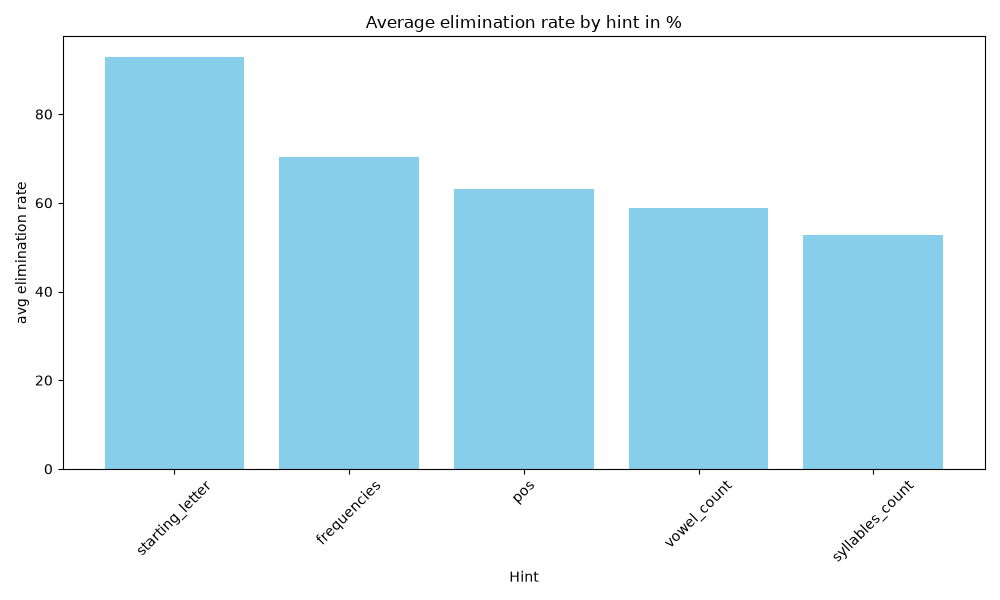
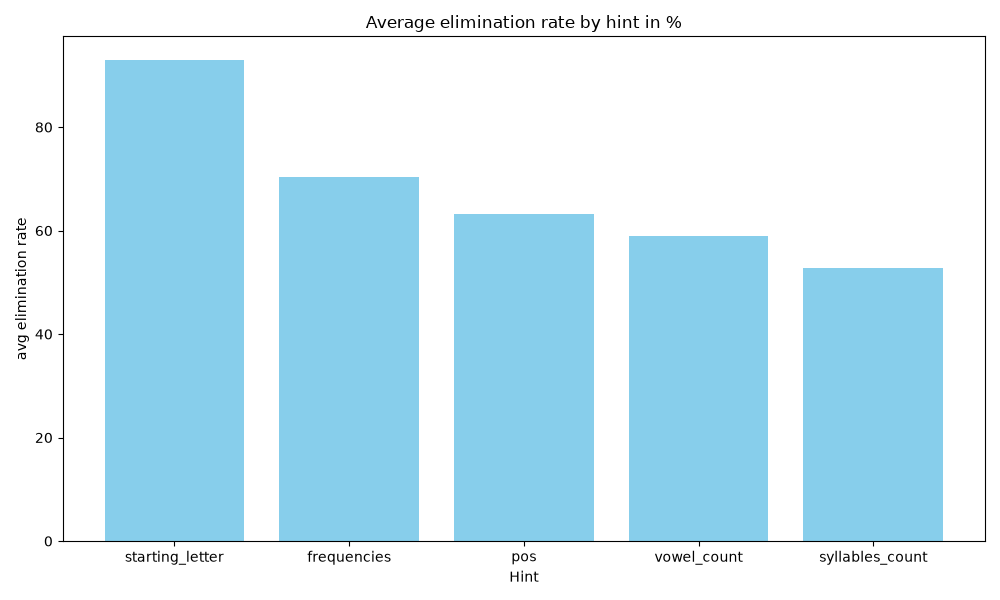
added comments

diff --git a/src/evaluate.py b/src/evaluate.py
@@ -70,11 +70,11 @@ def load_properties(): #load linguistic properties
 
 def analyze_game_data(save_to_file=False):  # analysis function
 
-    df = load_sheet_data()
+    df = load_sheet_data() #het the data from the linguistic wordle game 
     df["word"] = df["word"].str.lower()
 
-    props = load_properties()
-    props = {k.lower(): v for k, v in props.items()}
+    props = load_properties() #load the propertie_dict_pkl
+    props = {k.lower(): v for k, v in props.items()} #lower them
 
     # Attach properties to the data
     df["syllables"] = df["word"].apply(
@@ -160,10 +160,10 @@ def analyze_game_data(save_to_file=False):  # analysis function
 
     return results
 
-if __name__ == "__main__":
+if __name__ == "__main__": 
    analyze_game_data(save_to_file=True)
 
-def top_5_first_letters(file):
+def top_5_first_letters(file): #they would be good starting letters or negative hints, since they dont preclude many words
     words = bd.read_pickle(file) #load words
 
     if isinstance(words, dict):
@@ -183,14 +183,14 @@ def top_5_first_letters(file):
     })
     
     plt.figure(figsize=(10, 6)) #creates diagramm
-    plt.bar(top5.index, top5["percent"], color="skyblue")
-    plt.title("Top 5 initial letter – Percentage")
+    plt.bar(top5.index, top5["percent"], color="skyblue") #create the bars
+    plt.title("Top 5 initial letter – Percentage") #create title
     plt.xlabel("Letter")
     plt.ylabel("Percent (%)")
     plt.tight_layout()
 
-    data_folder = Path(__file__).resolve().parent.parent / "data" / "tables_and_charts" #saves diagramm
-    plt.savefig(data_folder / "top5_first_letters.png")
+    data_folder = Path(__file__).resolve().parent.parent / "data" / "tables_and_charts" #sets the path to save it
+    plt.savefig(data_folder / "top5_first_letters.png") #save it
     plt.close()
 
     print("Diagramm 'top5_first_letters.png' wurde erstellt.")
@@ -226,7 +226,7 @@ def avg_syllables_by_length_with_plot(file):
     plt.ylabel("Average syllables") #ylabel
     plt.tight_layout()
 
-    data_folder = Path(__file__).resolve().parent.parent / "data" / "tables_and_charts" #set the folder to save it
+    data_folder = Path(__file__).resolve().parent.parent / "data" / "tables_and_charts" #set the path to save it
     plt.savefig(data_folder / "avg_syllables_by_length.png") #save it
     plt.close()
     print("Diagramm avg_syllables_by_length.png wurde erstellt.") 
@@ -265,8 +265,8 @@ def avg_vowels_with_plot(file, length=None):
     plt.ylabel("Average number of vowels")
     plt.tight_layout()
 
-    data_folder = Path(__file__).resolve().parent.parent / "data" / "tables_and_charts" #saves diagramm
-    plt.savefig(data_folder / "avg_vowels_by_length.png")
+    data_folder = Path(__file__).resolve().parent.parent / "data" / "tables_and_charts" #set the path to save it
+    plt.savefig(data_folder / "avg_vowels_by_length.png") #save it
     plt.close()
 
     print("Diagramm 'avg_vowels_by_length.png' wurde erstellt.")
@@ -315,10 +315,10 @@ def top_10_words_with_plot(file):
 if __name__ == "__main__":
     print(top_10_words_with_plot("../data/propertie_dict.pkl"))
 
-def calculate_mean_elimination_rate_per_hint():
-    hints = ["syllables_count","frequencies", "pos", "starting_letter", "vowel_count"]
-    avg_elimination_rates = {"syllables_count": 0, "frequencies": 0, "pos":0, "starting_letter":0, "vowel_count": 0}
-    properties = rp("../data/propertie_dict.pkl")
+def calculate_mean_elimination_rate_per_hint(): #how many words can we preclude per hint?
+    hints = ["syllables_count","frequencies", "pos", "starting_letter", "vowel_count"] #the order
+    avg_elimination_rates = {"syllables_count": 0, "frequencies": 0, "pos":0, "starting_letter":0, "vowel_count": 0} #create the dict we want to edit
+    properties = rp("../data/propertie_dict.pkl") #load the pickle we get the properties from
     possible_solutions = 1423
     for i in range(3): #3 times, for sllaylblecies and pos
         avg_elimination_rate = 0
@@ -333,49 +333,50 @@ def calculate_mean_elimination_rate_per_hint():
             for key in properties: #for every possible solution
                 if properties.get(key).get(hints[i]) == element: #if the dict value equals the possible value
                     try:
-                        propertie_dict.update({element : propertie_dict.get(element) + 1}) 
+                        propertie_dict.update({element : propertie_dict.get(element) + 1}) #try if there is already an entry
                     except:
-                        propertie_dict.update({element : 1})
+                        propertie_dict.update({element : 1}) #if there is no entry, create it
         for element, count in propertie_dict.items():
-            weighted_rate += (possible_solutions - count) * (count/ possible_solutions)
-        avg_elimination_rate = weighted_rate / possible_solutions
-        avg_elimination_rates.update({hints[i]: avg_elimination_rate})
-    for i in range(2):
+            weighted_rate += (possible_solutions - count) * (count/ possible_solutions) #calculating the expected value
+        avg_elimination_rate = weighted_rate / possible_solutions #transform it into percentage
+        avg_elimination_rates.update({hints[i]: avg_elimination_rate}) #store it 
+    
+    for i in range(2): #now for starting letter and vowel count
         avg_elimination_rate = 0
         one_rate_per_value = set() #
         propertie_dict = {}
         weighted_rate = 0
         vowels = "aeiou"
         for key in properties: #fill the set
-            if i == 0:
+            if i == 0: #for the starting letter
                 value = key[0]
             else:
-                value = sum(1 for v in key if v in vowels)
+                value = sum(1 for v in key if v in vowels) #for the vowel count
             one_rate_per_value.add(value)
         for element in one_rate_per_value: #for each element in the set
             for key in properties: #for every possible solution
                 if i == 0:
-                    if element == key[0] :
+                    if element == key[0] : #for the vowel count
                         try:
-                            propertie_dict.update({element : propertie_dict.get(element) + 1}) 
+                            propertie_dict.update({element : propertie_dict.get(element) + 1}) #updates an existing entrie
                         except:
-                            propertie_dict.update({element : 1})
-                else:
+                            propertie_dict.update({element : 1}) #creates the entrie
+                else: #for the vowel count
                     if element == sum(1 for v in key if v in vowels):
                         try:
-                            propertie_dict.update({element : propertie_dict.get(element) + 1}) 
+                            propertie_dict.update({element : propertie_dict.get(element) + 1}) #updates an existing entrie
                         except:
-                            propertie_dict.update({element : 1})
+                            propertie_dict.update({element : 1}) #creates the entrie
         for element, count in propertie_dict.items():
-            weighted_rate += (possible_solutions - count) * (count/ possible_solutions)
-            avg_elimination_rate = weighted_rate / possible_solutions
-            avg_elimination_rates.update({hints[i + 3]: avg_elimination_rate})
+            weighted_rate += (possible_solutions - count) * (count/ possible_solutions) #calculating the expected value
+            avg_elimination_rate = weighted_rate / possible_solutions #transform it into percentage
+            avg_elimination_rates.update({hints[i + 3]: avg_elimination_rate}) #store it
     return avg_elimination_rates
 
 if __name__=="__main__":
     print(calculate_mean_elimination_rate_per_hint())
 
-def create_chart_for_average_elimination(avg_elimination: dict):
+def create_chart_for_average_elimination(avg_elimination: dict): #function to plot and save the average elimination rate
 
     df = pd.DataFrame([ #builds dataframe
             {
@@ -385,17 +386,16 @@ def create_chart_for_average_elimination(avg_elimination: dict):
             }
             for hint in avg_elimination.keys()
         ])
-    df["avg elimination rate"] *= 100
+    df["avg elimination rate"] *= 100 #to show it in %
     entries_5 = df.sort_values("avg elimination rate", ascending=False)
     plt.figure(figsize=(10, 6)) #creates diagramm
-    plt.bar(entries_5["Hint"], entries_5["avg elimination rate"], color="skyblue")
-    plt.title("Average elimination rate by hint in %")
-    plt.xlabel("Hint")
-    plt.ylabel("avg elimination rate")
-    plt.xticks(rotation=45)
+    plt.bar(entries_5["Hint"], entries_5["avg elimination rate"], color="skyblue") #creates the bars
+    plt.title("Average elimination rate by hint in %") #set title
+    plt.xlabel("Hint") #set xlabel
+    plt.ylabel("avg elimination rate") # set ylabel
     plt.tight_layout()
 
-    plt.savefig("../data/tables_and_charts/average_elimination_rate.png")
+    plt.savefig("../data/tables_and_charts/average_elimination_rate.png") #save the chart
 
-if __name__=="__main__":
-    create_chart_for_average_elimination(calculate_mean_elimination_rate_per_hint())
+if __name__=="__main__": #create the chart when we run the code
+    create_chart_for_average_elimination(calculate_mean_elimination_rate_per_hint()) 
